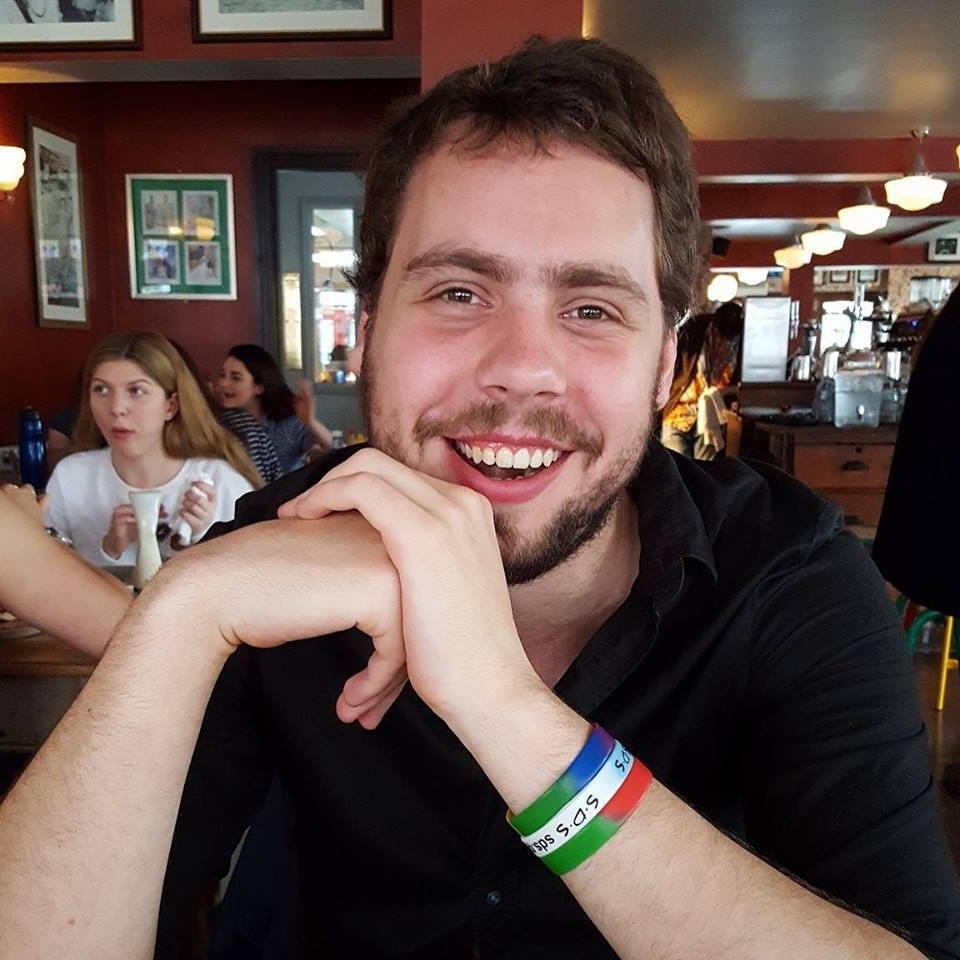
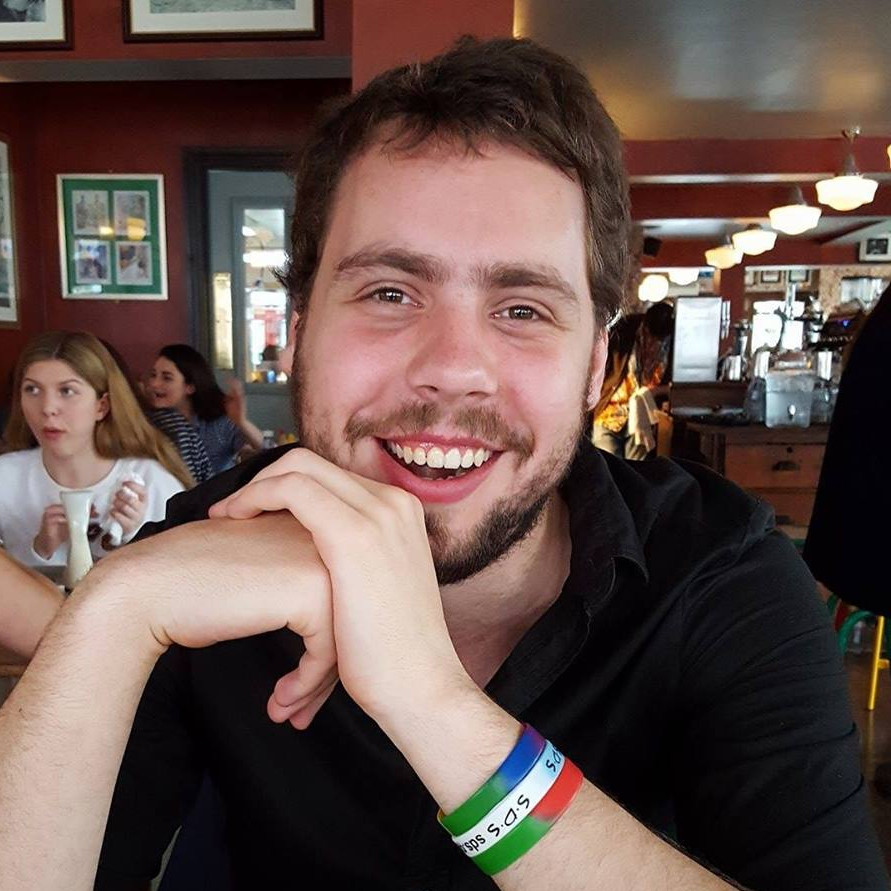
new pic

diff --git a/sass/small-default.scss b/sass/small-default.scss
@@ -35,7 +35,7 @@ header{
     h1{
         line-height: 58px;
         letter-spacing: -.02em;
-        margin: 10%;
+        margin: 3% 10%;
         text-align: center;
         strong{
 
@@ -52,11 +52,15 @@ header{
     }
     
     .avatar{
+
         display: block;
         margin: 0 auto;
-        height: 35vw;
-        width: 35vw;
+        // height: 35vw;
+        width: 35%;
+        min-width: 150px;
+        max-width: 250px;
         border-radius: 50%;
+        border: solid 6px white;
     }
 
 
